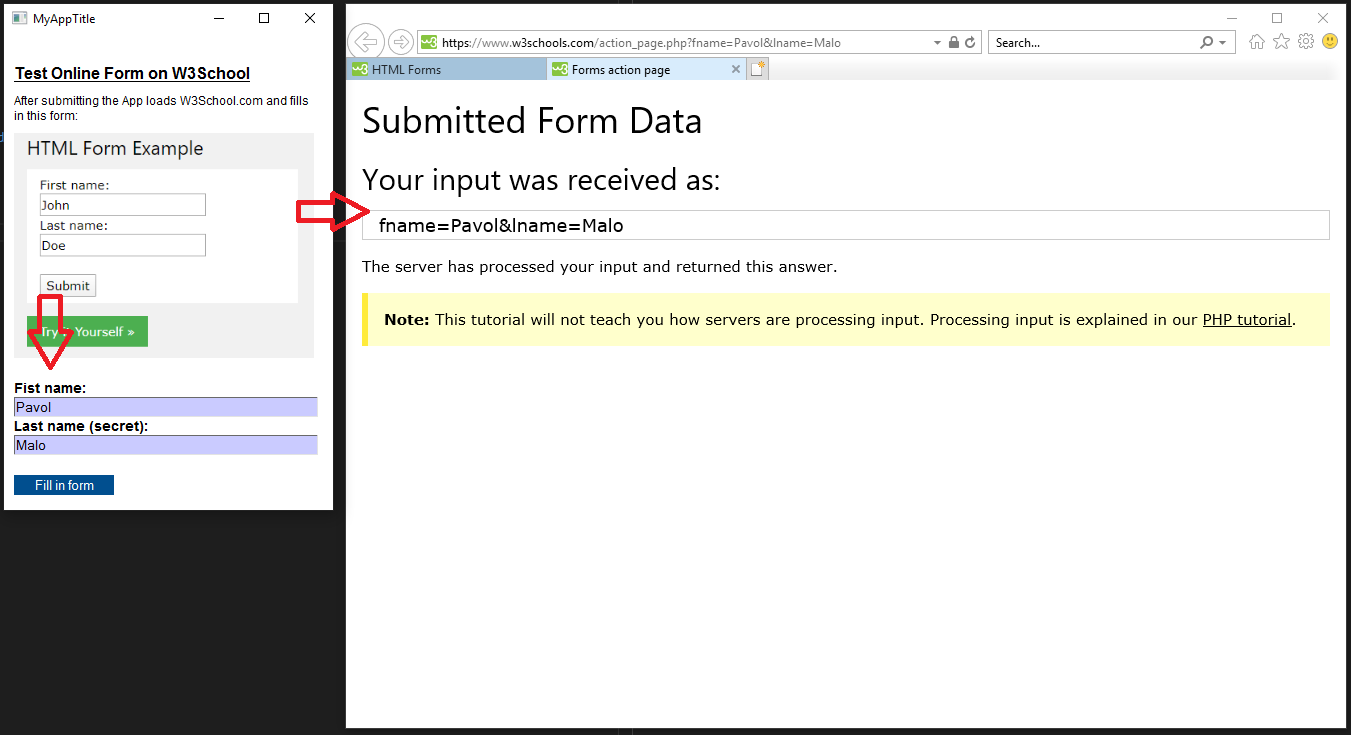
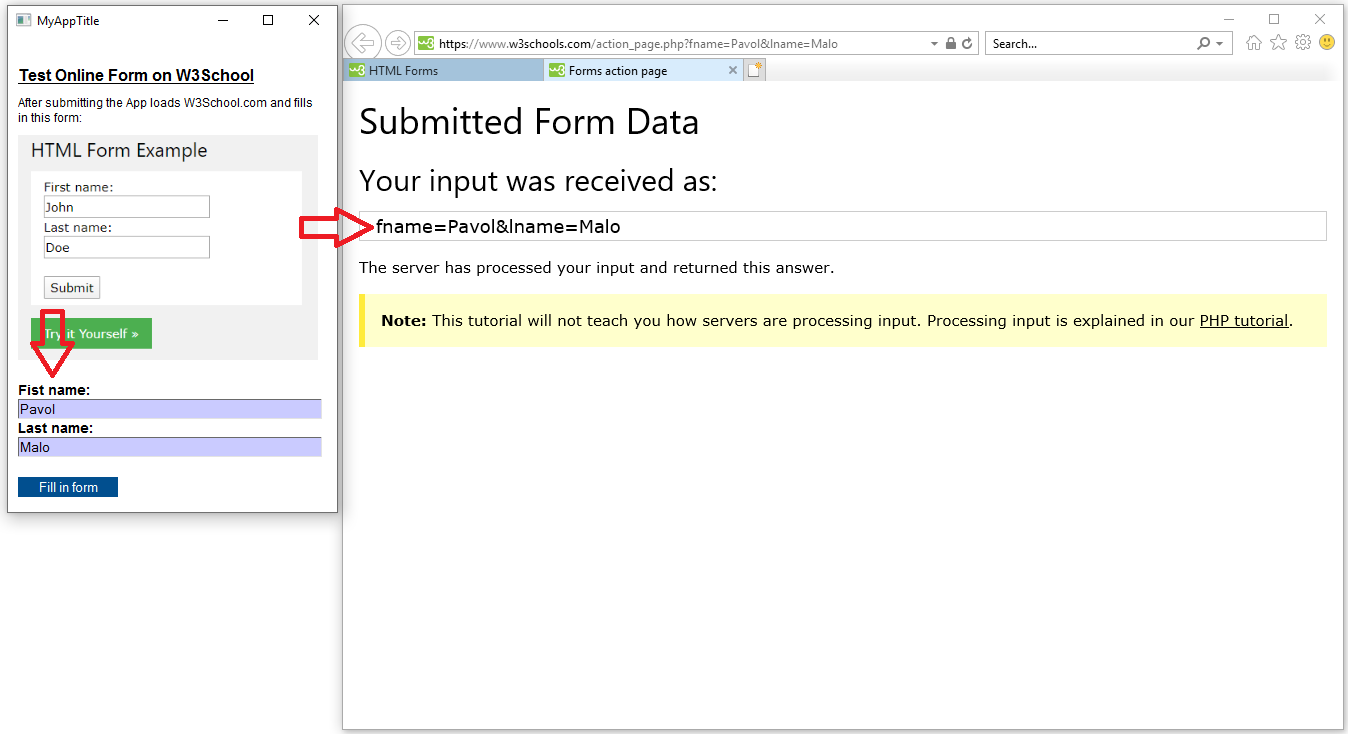
Readme adjustments

Changed region(s): [[0.0, 0.0, 1.0, 1.0], [0.1244, 0.2694, 0.1554, 0.2993]]

diff --git a/README.md b/README.md
@@ -2,7 +2,7 @@
 This application automates the assembly of an HTML-Application into a single file: 
 
 
-<img src="Images/HTA-builder.png" width="250">
+<img src="Images/HTA-builder.png" width="350">
 
 This App was produced as a side product during my master degree studies of Software Design and Engineering at [University of Applied Sciences FH Campus Wien](https://www.fh-campuswien.ac.at/en/studies/study-courses/detail/software-design-and-engineering-master.html).
 
@@ -16,7 +16,7 @@ The "MyApp.hta" in "Build"-directory is built with every initiation of the "buil
 
 Additionally, this app includes a small demo of taking user input and filling online forms:  
 
-<img src="Images/HTML-demo.png" width="650">
+<img src="Images/HTML-demo.png" width="850">
 
 Note: Error handling is not included. You may need to enable pop-ups and/or accept cookies for W3School.com in Internet Explorer manually before the application can run as intended. 
 
